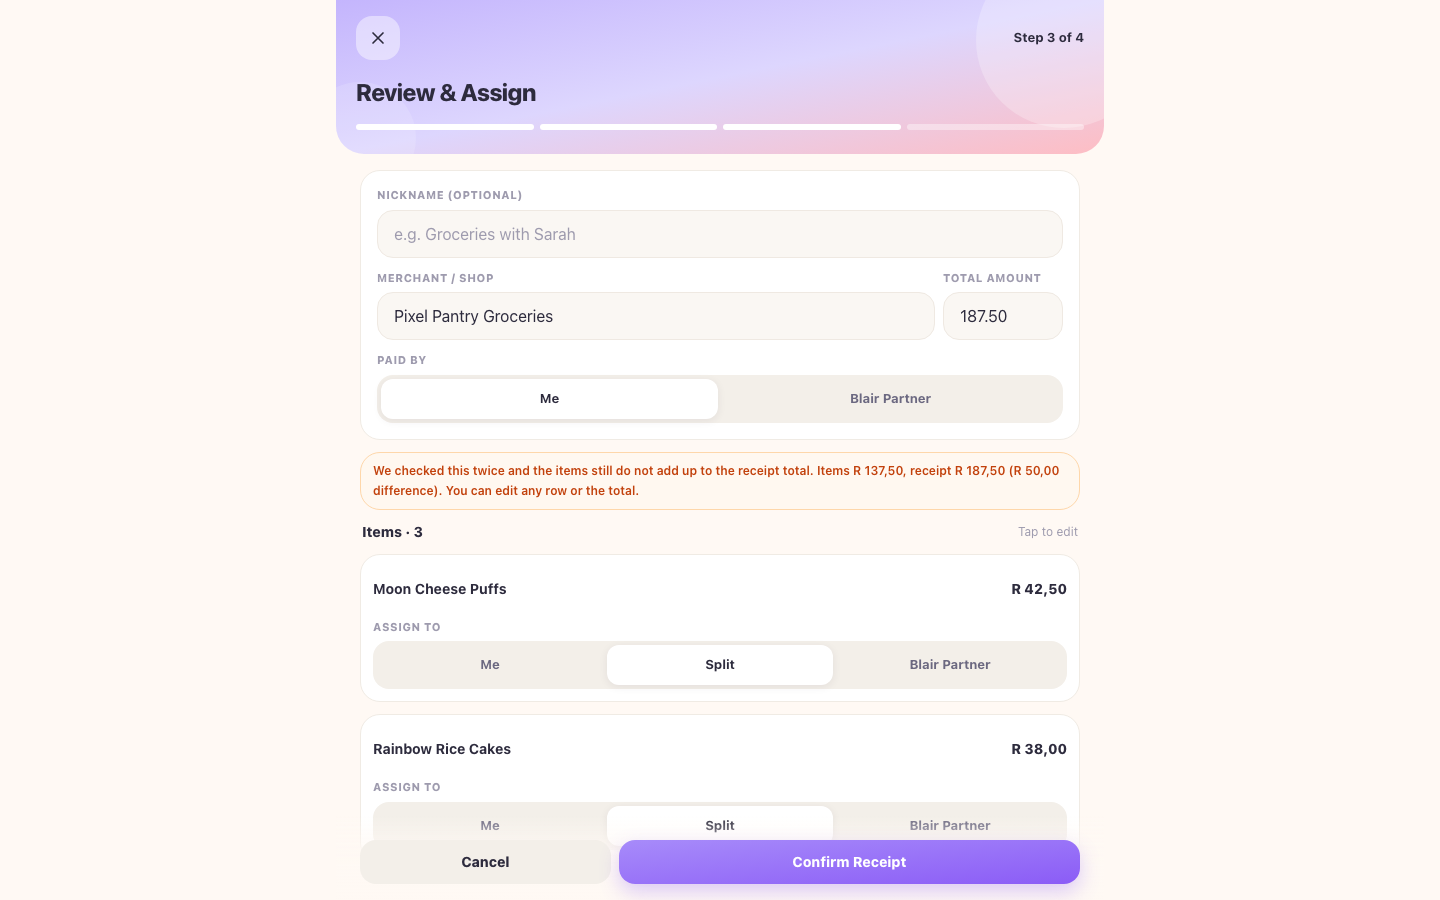
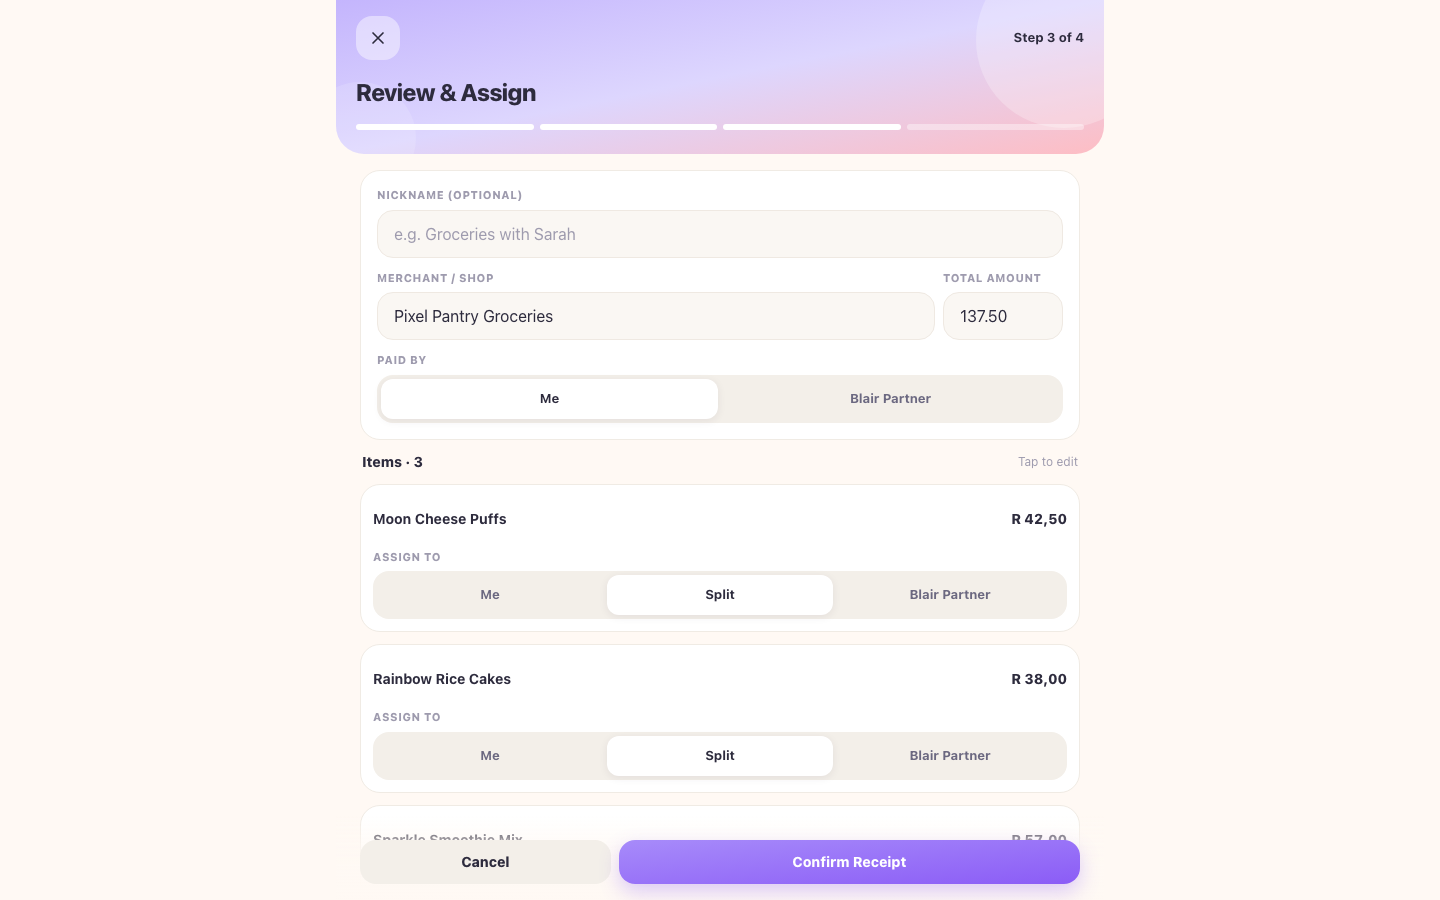
Fix SplitEasy demo receipt totals in the README screenshots.
The grocery receipt total now matches its line items, and the history capture waits until only settlements are visible.

diff --git a/backend/scripts/seed_demo.py b/backend/scripts/seed_demo.py
@@ -102,7 +102,7 @@ async def seed() -> None:
             merchant_name="Pixel Pantry Groceries",
             receipt_date="2026-02-14",
             currency="ZAR",
-            total_amount=Decimal("187.50"),
+            total_amount=Decimal("137.50"),
             status=ReceiptStatus.pending_review,
             paid_by_user_id=USER_ALEX_ID,
         )
